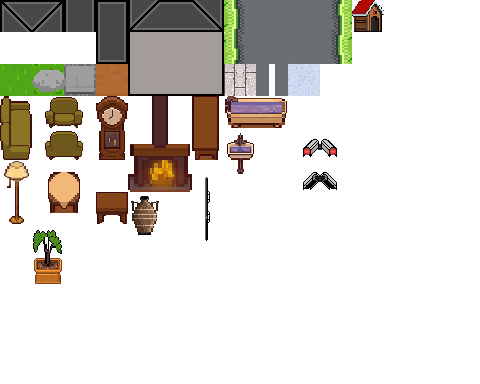
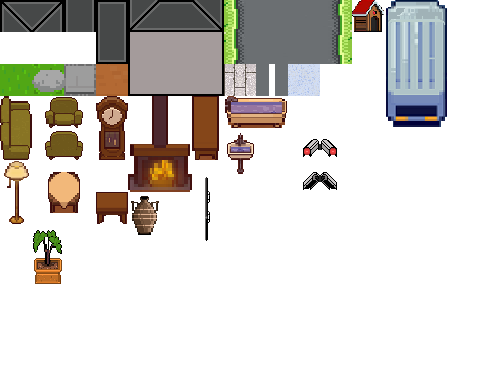
2404

Changed region(s): [[0.7812, 0.0, 0.9375, 0.3438]]

diff --git a/game.h b/game.h
@@ -164,11 +164,11 @@ int Collision3(const Mouse &mouse, const OBJECTS &ob){
     return 0;
 }
 int Collision3(const Mouse &mouse, const CAMERASCAN &cs){
-    if (mouse.x < cs.x + cs.w && mouse.x + 32 > cs.x && mouse.y < cs.y + cs.h -32&& mouse.y + 32 > cs.y) return 1;
+    if (mouse.x <= cs.x + cs.w && mouse.x + 32 >= cs.x && mouse.y <= cs.y + cs.h -32&& mouse.y + 32 >= cs.y) return 1;
     return 0;
 }
 int Collision3(const Mouse &mouse, const VUNGCHELAP &vcl){
-    if (mouse.x < vcl.x + vcl.w && mouse.x + 32 > vcl.x && mouse.y < vcl.y + vcl.h -32&& mouse.y + 32 > vcl.y) return 1;
+    if (mouse.x <= vcl.x + vcl.w && mouse.x + 32 >= vcl.x && mouse.y <= vcl.y + vcl.h -32&& mouse.y + 32 >= vcl.y) return 1;
     return 0;
 }
 int Collision3(const Mouse &mouse, const VUNGCHODUOI &vcl){

diff --git a/Objects.h b/Objects.h
@@ -124,6 +124,8 @@ vector<OBJECTS> ObjectsInit(){
     ob.emplace_back("pots1", 0, 0, 675, 304, 26, 12);
     ob.emplace_back("pots2", 0, 0, 867, 304, 26, 12);
     ob.emplace_back("kennel", 0, 0, 322, 465, 28, 15);
+    ob.emplace_back("truck", 0, 0, 160, 32, 64, 128);
+
     return ob;
 }
 
@@ -150,6 +152,13 @@ vector<VUNGCHELAP> VCLInit(){
     vcl.emplace_back("singlesofa1", 717, 227, 38, 11);
 
     return vcl;
+}
+
+vector <OBJECTS> EscapeInit(){
+    vector<OBJECTS> ei;
+    ei.emplace_back("car_trunk", 0, 0, 169, 157, 48, 16);
+    ei.emplace_back("Enter", 0, 0, 224, 64, 32, 32);
+    return ei;
 }
 
 void VUNGCHODUOIInit(VUNGCHODUOI &vcd){

diff --git a/main.cpp b/main.cpp
@@ -74,9 +74,14 @@ int main(int argc, char* argv[])
     bool goR(0);
     bool dogchase(0);
     bool DoggoR(0);
+    bool menu(0);
 
 
     while (!quit) {
+        while (menu){
+
+        }
+
         SDL_RenderClear(graphics.renderer);
         graphics.drawTileMap(BackGround, tilesetImage);
 
@@ -173,6 +178,7 @@ int main(int argc, char* argv[])
         CheckCollisionCamera(mouse, camerascan, camnow);
 
         graphics.presentScene();
+
         SDL_Delay(10);
     }
 

diff --git a/menu.h b/menu.h
@@ -1,0 +1,8 @@
+#ifndef MENU_H_INCLUDED
+#define MENU_H_INCLUDED
+
+#include "def.h"
+#include "graphics.h"
+
+
+#endif // MENU_H_INCLUDED
